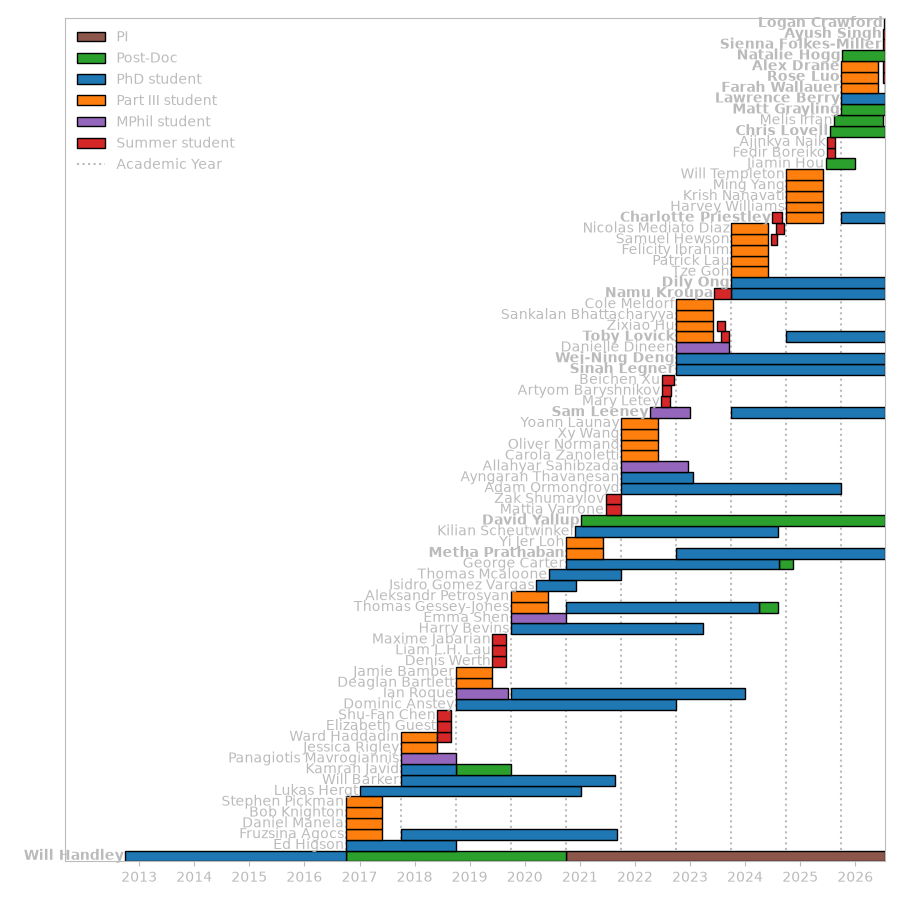
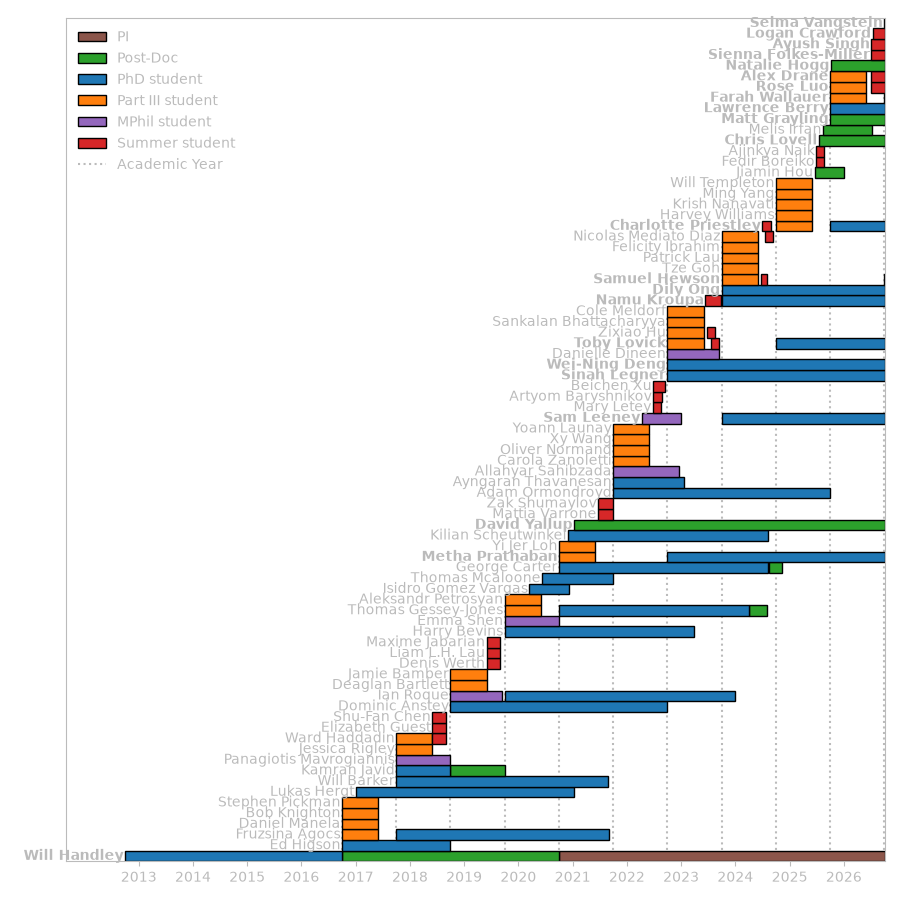
Add October 2026 PhD students Selma Vangstein and Samuel Hewson
Selma Vangstein (PhD from 2026-10-01, Handley and Hobson) and a PhD role
for Samuel Hewson (from 2026-10-01, Handley); Hewson is removed from the
html_table ignore list so the entry is shown. Regenerated group.html and
group.png.

diff --git a/assets/group/group.html b/assets/group/group.html
@@ -34,7 +34,7 @@
           <li>Post-Doc from Oct 2016 to Oct 2020<ul></ul></li>
           <li>PhD student from Oct 2012 to Sep 2016<ul><li>co-supervised with <a href="https://www.phy.cam.ac.uk/directory/lasenbya">Anthony Lasenby</a>, <a href="https://www.phy.cam.ac.uk/directory/hobsonm">Mike Hobson</a></li><li>Thesis: Kinetic initial conditions for inflation: theory, observation and methods</li></ul></li>
           <li>
-            <a href="https://arxiv.org/a/handley_w_1.html">arXiv papers (129)</a>
+            <a href="https://arxiv.org/a/handley_w_1.html">arXiv papers (138)</a>
           </li>
           <li>Links:</li>
           <ul>
@@ -63,7 +63,22 @@
           <li>Group research papers:</li>
           <ul>
             <li>
+              <a href="https://arxiv.org/abs/2603.03441">Cosmology with the line-of-sight shear of strong gravitational lenses</a>
+            </li>
+            <li>
+              <a href="https://arxiv.org/abs/2601.17239">An ultra-high-resolution map of (dark) matter</a>
+            </li>
+            <li>
+              <a href="https://arxiv.org/abs/2512.16416">Transformational astrophysics and exoplanet science with Habitable Worlds Observatory's High Resolution Imager</a>
+            </li>
+            <li>
               <a href="https://arxiv.org/abs/2512.05050">Line-of-sight shear in SLACS strong lenses II: validation tests with an extended sample</a>
+            </li>
+            <li>
+              <a href="https://arxiv.org/abs/2503.08785">The COSMOS-Web Lens Survey(COWLS) III: forecasts versus data</a>
+            </li>
+            <li>
+              <a href="https://arxiv.org/abs/2503.08782">The COSMOS-Web Lens Survey (COWLS) II: Depth, resolution, and NIR coverage from JWST reveals 17 spectacular lenses</a>
             </li>
           </ul>
         </ul>
@@ -81,6 +96,12 @@
           <li>Post-Doc from Oct 2025<ul></ul></li>
           <li>Group research papers:</li>
           <ul>
+            <li>
+              <a href="https://arxiv.org/abs/2603.11165">FlowSN: Neural Simulation-Based Inference under Realistic Selection Effects applied to Supernova Cosmology</a>
+            </li>
+            <li>
+              <a href="https://arxiv.org/abs/2602.02677">Lightcurve Modelling of 2,205 ZTF DR2 Type~Ia Supernovae: Implications for SN Ia Physics and Cosmology</a>
+            </li>
             <li>
               <a href="https://arxiv.org/abs/2511.07517">The Dark Energy Survey Supernova Program: A Reanalysis Of Cosmology Results And Evidence For Evolving Dark Energy With An Updated Type Ia Supernova Calibration</a>
             </li>
@@ -107,10 +128,16 @@
           <li>Group research papers:</li>
           <ul>
             <li>
+              <a href="https://arxiv.org/abs/2604.06318">Introducing sapphire: Towards Hybrid Physics-Informed, Data-Driven Modeling of Galaxy Formation</a>
+            </li>
+            <li>
               <a href="https://arxiv.org/abs/2601.06258">Cosmological back-reaction of baryons on dark matter in the CAMELS simulations</a>
             </li>
             <li>
               <a href="https://arxiv.org/abs/2512.03038">A new constraint on the $y$-distortion with FIRAS: implications for feedback models in galaxy formation and cosmic shear measurements</a>
+            </li>
+            <li>
+              <a href="https://arxiv.org/abs/2512.01489">Euclid: The first statistical census of dusty and massive objects in the ERO/Perseus field</a>
             </li>
             <li>
               <a href="https://arxiv.org/abs/2511.10640">Flexible Simulation Based Inference for Galaxy Photometric Fitting with Synthesizer</a>
@@ -125,7 +152,16 @@
               <a href="https://arxiv.org/abs/2510.14766">Predicting the Subhalo Mass Functions in Simulations from Galaxy Images</a>
             </li>
             <li>
+              <a href="https://arxiv.org/abs/2509.16111">The nature of high-redshift massive quiescent galaxies ─ searching for RUBIES-UDS-QG-z7 in FLARES</a>
+            </li>
+            <li>
               <a href="https://arxiv.org/abs/2508.03888">Synthesizer: a Software Package for Synthetic Astronomical Observables</a>
+            </li>
+            <li>
+              <a href="https://arxiv.org/abs/2507.20190">Interpreting nebular emission lines in the high-redshift Universe</a>
+            </li>
+            <li>
+              <a href="https://arxiv.org/abs/2506.15811">Synthesizer: Synthetic Observables for Modern Astronomy</a>
             </li>
           </ul>
         </ul>
@@ -143,6 +179,12 @@
           <li>Post-Doc from Jan 2021<ul></ul></li>
           <li>Group research papers:</li>
           <ul>
+            <li>
+              <a href="https://arxiv.org/abs/2603.26644">Automatic Laplace Collapsed Sampling: Scalable Marginalisation of Latent Parameters via Automatic Differentiation</a>
+            </li>
+            <li>
+              <a href="https://arxiv.org/abs/2603.05472">The Bayesian view of DESI DR2: Evidence and tension in a combined analysis with CMB and supernovae across cosmological models</a>
+            </li>
             <li>
               <a href="https://arxiv.org/abs/2602.17414">Nested Sampling with Slice-within-Gibbs: Efficient Evidence Calculation for Hierarchical Bayesian Models</a>
             </li>
@@ -204,6 +246,54 @@
   <h1>PhD students</h1>
   <div class="grid">
     <div class="grid-item">
+      <img src="/assets/images/user.png" />
+    </div>
+    <div class="grid-item">
+      <p>
+        <font size="+2">Farah Wallauer</font>
+      </p>
+      <p>
+        <ul>
+          <li>PhD student from Oct 2026<ul><li>co-supervised with <a href="https://www.kicc.cam.ac.uk/staff/dr-james-alvey">James Alvey</a></li></ul></li>
+          <li>Part III student from Oct 2025 to Jun 2026<ul></ul></li>
+        </ul>
+      </p>
+    </div>
+    <div class="grid-item">
+      <img src="/assets/images/user.png" />
+    </div>
+    <div class="grid-item">
+      <p>
+        <font size="+2">Selma Vangstein</font>
+      </p>
+      <p>
+        <ul>
+          <li>PhD student from Oct 2026<ul><li>co-supervised with <a href="https://www.phy.cam.ac.uk/directory/hobsonm">Mike Hobson</a></li></ul></li>
+        </ul>
+      </p>
+    </div>
+    <div class="grid-item">
+      <img src="/assets/images/user.png" />
+    </div>
+    <div class="grid-item">
+      <p>
+        <font size="+2">Samuel Hewson</font>
+      </p>
+      <p>
+        <ul>
+          <li>PhD student from Oct 2026<ul></ul></li>
+          <li>Part III student from Oct 2023 to Jun 2024<ul><li>Thesis: Galaxies, snails and parity violation</li></ul></li>
+          <li>Summer student from Jun 2024 to Aug 2024<ul><li>co-supervised with <a href="https://www.phy.cam.ac.uk/directory/lesterc">Chris Lester</a></li></ul></li>
+          <li>Group research papers:</li>
+          <ul>
+            <li>
+              <a href="https://arxiv.org/abs/2410.16030">On the spatial distribution of the Large-Scale structure: An  Unsupervised search for Parity Violation</a>
+            </li>
+          </ul>
+        </ul>
+      </p>
+    </div>
+    <div class="grid-item">
       <img src="/assets/group/images/lawrence_berry.jpg" />
     </div>
     <div class="grid-item">
@@ -234,6 +324,12 @@
           <li>PhD student from Oct 2025<ul></ul></li>
           <li>Part III student from Oct 2024 to Jun 2025<ul><li>co-supervised with <a href="https://htjb.github.io/">Harry Bevins</a></li></ul></li>
           <li>Summer student from Jul 2024 to Aug 2024<ul><li>co-supervised with <a href="https://htjb.github.io/">Harry Bevins</a></li></ul></li>
+          <li>Group research papers:</li>
+          <ul>
+            <li>
+              <a href="https://arxiv.org/abs/2603.27830">jaxsgp4: GPU-accelerated mega-constellation propagation with batch parallelism</a>
+            </li>
+          </ul>
         </ul>
       </p>
     </div>
@@ -251,6 +347,9 @@
           <li>Summer student from Jul 2023 to Sep 2023<ul><li>co-supervised with <a href="https://www.lucy.cam.ac.uk/fellows/dr-suhail-dhawan">Suhail Dhawan</a></li></ul></li>
           <li>Group research papers:</li>
           <ul>
+            <li>
+              <a href="https://arxiv.org/abs/2603.26644">Automatic Laplace Collapsed Sampling: Scalable Marginalisation of Latent Parameters via Automatic Differentiation</a>
+            </li>
             <li>
               <a href="https://arxiv.org/abs/2509.13307">High-Dimensional Bayesian Model Comparison in Cosmology with
   GPU-accelerated Nested Sampling and Neural Emulators</a>
@@ -275,6 +374,9 @@
           <li>Summer student from Jun 2023 to Sep 2023<ul></ul></li>
           <li>Group research papers:</li>
           <ul>
+            <li>
+              <a href="https://arxiv.org/abs/2602.22307">The global structure of the time delay likelihood</a>
+            </li>
             <li>
               <a href="https://arxiv.org/abs/2602.11264">Time delays and stationarity in quasar light curves</a>
             </li>
@@ -304,6 +406,9 @@
           <li>Group research papers:</li>
           <ul>
             <li>
+              <a href="https://arxiv.org/abs/2603.05472">The Bayesian view of DESI DR2: Evidence and tension in a combined analysis with CMB and supernovae across cosmological models</a>
+            </li>
+            <li>
               <a href="https://arxiv.org/abs/2511.10631">A Bayesian Perspective on Evidence for Evolving Dark Energy</a>
             </li>
             <li>
@@ -329,6 +434,18 @@
           <li>MPhil student from Apr 2022 to Dec 2022<ul><li>co-supervised with <a href="https://www.phy.cam.ac.uk/directory/dr-eloy-de-lera-acedo">Eloy de Lera Acedo</a></li><li>Thesis: Data science in early universe Cosmology: a novel Bayesian RFI mitigation approach using numerical sampling techniques</li></ul></li>
           <li>Group research papers:</li>
           <ul>
+            <li>
+              <a href="https://arxiv.org/abs/2604.00105">Optimisation of calibration sources for global 21-cm experiments: the REACH case</a>
+            </li>
+            <li>
+              <a href="https://arxiv.org/abs/2603.26489">Conditional Neural Bayes Ratio Estimation for Experimental Design Optimisation</a>
+            </li>
+            <li>
+              <a href="https://arxiv.org/abs/2603.15072">Circuit Modeling for In Situ 21 cm Radiometer Calibration</a>
+            </li>
+            <li>
+              <a href="https://arxiv.org/abs/2603.13196">Optimising Foreground Modelling for Global 21cm Cosmology with GPU-Accelerated Nested Sampling</a>
+            </li>
             <li>
               <a href="https://arxiv.org/abs/2509.13394">Bayesian Anomaly Detection for Ia Cosmology: Automating SALT3 Data
   Curation</a>
@@ -495,6 +612,12 @@
       <p>
         <ul>
           <li>Summer student from Jul 2026<ul></ul></li>
+          <li>Group research papers:</li>
+          <ul>
+            <li>
+              <a href="https://arxiv.org/abs/1903.04763">Messengers from the Early Universe: Cosmic Neutrinos and Other Light Relics</a>
+            </li>
+          </ul>
         </ul>
       </p>
     </div>
@@ -523,6 +646,9 @@
           <li>Summer student from Jul 2026<ul><li>co-supervised with David Yallup</li></ul></li>
           <li>Group research papers:</li>
           <ul>
+            <li>
+              <a href="https://arxiv.org/abs/2508.13761">Narrowing the discovery space of the cosmological 21-cm signal using multi-wavelength constraints</a>
+            </li>
             <li>
               <a href="https://arxiv.org/abs/2312.08828">On the Constraints on Superconducting Cosmic Strings from 21-cm  Cosmology</a>
             </li>
@@ -614,6 +740,18 @@
           <li>Part III student from Oct 2019 to Jun 2020<ul><li>Thesis: Initial Conditions Before Inflation</li></ul></li>
           <li>Group research papers:</li>
           <ul>
+            <li>
+              <a href="https://arxiv.org/abs/2604.00105">Optimisation of calibration sources for global 21-cm experiments: the REACH case</a>
+            </li>
+            <li>
+              <a href="https://arxiv.org/abs/2603.26489">Conditional Neural Bayes Ratio Estimation for Experimental Design Optimisation</a>
+            </li>
+            <li>
+              <a href="https://arxiv.org/abs/2603.15072">Circuit Modeling for In Situ 21 cm Radiometer Calibration</a>
+            </li>
+            <li>
+              <a href="https://arxiv.org/abs/2508.13761">Narrowing the discovery space of the cosmological 21-cm signal using multi-wavelength constraints</a>
+            </li>
             <li>
               <a href="https://arxiv.org/abs/2503.13263">On the accuracy of posterior recovery with neural network emulators</a>
             </li>
@@ -777,6 +915,12 @@
           <li>Group research papers:</li>
           <ul>
             <li>
+              <a href="https://arxiv.org/abs/2604.00105">Optimisation of calibration sources for global 21-cm experiments: the REACH case</a>
+            </li>
+            <li>
+              <a href="https://arxiv.org/abs/2603.15072">Circuit Modeling for In Situ 21 cm Radiometer Calibration</a>
+            </li>
+            <li>
               <a href="https://arxiv.org/abs/2512.08316">PolySwyft: sequential simulation-based nested sampling</a>
             </li>
             <li>
@@ -829,6 +973,12 @@
       <p>
         <ul>
           <li>PhD student from Mar 2020 to Dec 2020<ul><li>co-supervised with <a href="https://inspirehep.net/authors/1061596">Jose Alberto Vazquez</a></li></ul></li>
+          <li>Group research papers:</li>
+          <ul>
+            <li>
+              <a href="https://arxiv.org/abs/1903.04763">Messengers from the Early Universe: Cosmic Neutrinos and Other Light Relics</a>
+            </li>
+          </ul>
           <li>Links:</li>
           <ul>
             <li>
@@ -858,6 +1008,12 @@
           <li>MPhil student from Oct 2018 to Sep 2019<ul><li>co-supervised with <a href="https://www.phy.cam.ac.uk/directory/razavi-ghods">Nima Razavi-Ghods</a></li><li>Thesis: Bayesian Techniques for the Calibration of 21 cm Global Experiments</li></ul></li>
           <li>Group research papers:</li>
           <ul>
+            <li>
+              <a href="https://arxiv.org/abs/2604.00105">Optimisation of calibration sources for global 21-cm experiments: the REACH case</a>
+            </li>
+            <li>
+              <a href="https://arxiv.org/abs/2603.15072">Circuit Modeling for In Situ 21 cm Radiometer Calibration</a>
+            </li>
             <li>
               <a href="https://arxiv.org/abs/2412.14023">Accounting for Noise and Singularities in Bayesian Calibration Methods  for Global 21-cm Cosmology Experiments</a>
             </li>
@@ -890,6 +1046,15 @@
           <li>PhD student from Oct 2018 to Sep 2022<ul><li>co-supervised with <a href="https://www.phy.cam.ac.uk/directory/dr-eloy-de-lera-acedo">Eloy de Lera Acedo</a></li><li>Thesis: Data Analysis in Global 21cm Experiments: Physically Motivated Bayesian Modelling Techniques</li></ul></li>
           <li>Group research papers:</li>
           <ul>
+            <li>
+              <a href="https://arxiv.org/abs/2604.00105">Optimisation of calibration sources for global 21-cm experiments: the REACH case</a>
+            </li>
+            <li>
+              <a href="https://arxiv.org/abs/2603.15072">Circuit Modeling for In Situ 21 cm Radiometer Calibration</a>
+            </li>
+            <li>
+              <a href="https://arxiv.org/abs/2603.13196">Optimising Foreground Modelling for Global 21cm Cosmology with GPU-Accelerated Nested Sampling</a>
+            </li>
             <li>
               <a href="https://arxiv.org/abs/2504.09725">Rapid and Late Cosmic Reionization Driven by Massive Galaxies: a Joint  Analysis of Constraints from 21-cm, Lyman Line & CMB Data Sets</a>
             </li>
@@ -1113,6 +1278,12 @@
           <li>MPhil student from Oct 2019 to Sep 2020<ul><li>co-supervised with <a href="https://www.phy.cam.ac.uk/directory/dr-eloy-de-lera-acedo">Eloy de Lera Acedo</a>, <a href="https://www.ast.cam.ac.uk/people/Anastasia.Fialkov">Anastasia Fialkov</a></li><li>Thesis: Ionospheric Effects in the Global 21-cm Experiment</li></ul></li>
           <li>Group research papers:</li>
           <ul>
+            <li>
+              <a href="https://arxiv.org/abs/2604.00105">Optimisation of calibration sources for global 21-cm experiments: the REACH case</a>
+            </li>
+            <li>
+              <a href="https://arxiv.org/abs/2603.15072">Circuit Modeling for In Situ 21 cm Radiometer Calibration</a>
+            </li>
             <li>
               <a href="https://arxiv.org/abs/2011.10517">Quantifying Ionospheric Effects on Global 21-cm Observations</a>
             </li>
@@ -1359,6 +1530,15 @@
           <li>Group research papers:</li>
           <ul>
             <li>
+              <a href="https://arxiv.org/abs/2512.16416">Transformational astrophysics and exoplanet science with Habitable Worlds Observatory's High Resolution Imager</a>
+            </li>
+            <li>
+              <a href="https://arxiv.org/abs/2512.01489">Euclid: The first statistical census of dusty and massive objects in the ERO/Perseus field</a>
+            </li>
+            <li>
+              <a href="https://arxiv.org/abs/1903.05128">The Next Generation of Cosmological Measurements with Type Ia Supernovae</a>
+            </li>
+            <li>
               <a href="https://arxiv.org/abs/1701.08165">Dynamical dark energy in light of the latest observations</a>
             </li>
           </ul>
@@ -1439,6 +1619,9 @@
           <li>Part III student from Oct 2018 to Jun 2019<ul><li>Thesis: The Conformal Boundary at the End of the Universe</li></ul></li>
           <li>Group research papers:</li>
           <ul>
+            <li>
+              <a href="https://arxiv.org/abs/2512.16416">Transformational astrophysics and exoplanet science with Habitable Worlds Observatory's High Resolution Imager</a>
+            </li>
             <li>
               <a href="https://arxiv.org/abs/2104.02521">Perturbations and the Future Conformal Boundary</a>
             </li>
@@ -1637,6 +1820,9 @@
           <li>Group research papers:</li>
           <ul>
             <li>
+              <a href="https://arxiv.org/abs/1903.04763">Messengers from the Early Universe: Cosmic Neutrinos and Other Light Relics</a>
+            </li>
+            <li>
               <a href="https://arxiv.org/abs/1811.11679">The HANDE-QMC project: open-source stochastic quantum chemistry from the  ground state up</a>
             </li>
           </ul>
@@ -1823,10 +2009,16 @@
           <li>Group research papers:</li>
           <ul>
             <li>
+              <a href="https://arxiv.org/abs/2512.16416">Transformational astrophysics and exoplanet science with Habitable Worlds Observatory's High Resolution Imager</a>
+            </li>
+            <li>
               <a href="https://arxiv.org/abs/2511.07517">The Dark Energy Survey Supernova Program: A Reanalysis Of Cosmology Results And Evidence For Evolving Dark Energy With An Updated Type Ia Supernova Calibration</a>
             </li>
             <li>
               <a href="https://arxiv.org/abs/2205.15570">Nested sampling for physical scientists</a>
+            </li>
+            <li>
+              <a href="https://arxiv.org/abs/1903.04763">Messengers from the Early Universe: Cosmic Neutrinos and Other Light Relics</a>
             </li>
           </ul>
           <li>Subsequent career:</li>

diff --git a/assets/group/html_table.py b/assets/group/html_table.py
@@ -33,7 +33,7 @@ css = """
 }
 """
 
-ignore = ["George Carter", "Stephen Pickman", "Patrick Lau", "Samuel Hewson", "Nicolas Mediato Diaz", "Ajinkya Naik"]
+ignore = ["George Carter", "Stephen Pickman", "Patrick Lau","Nicolas Mediato Diaz", "Ajinkya Naik"]
 
 with open(html_file, 'w') as f:
     doc = Doc()
